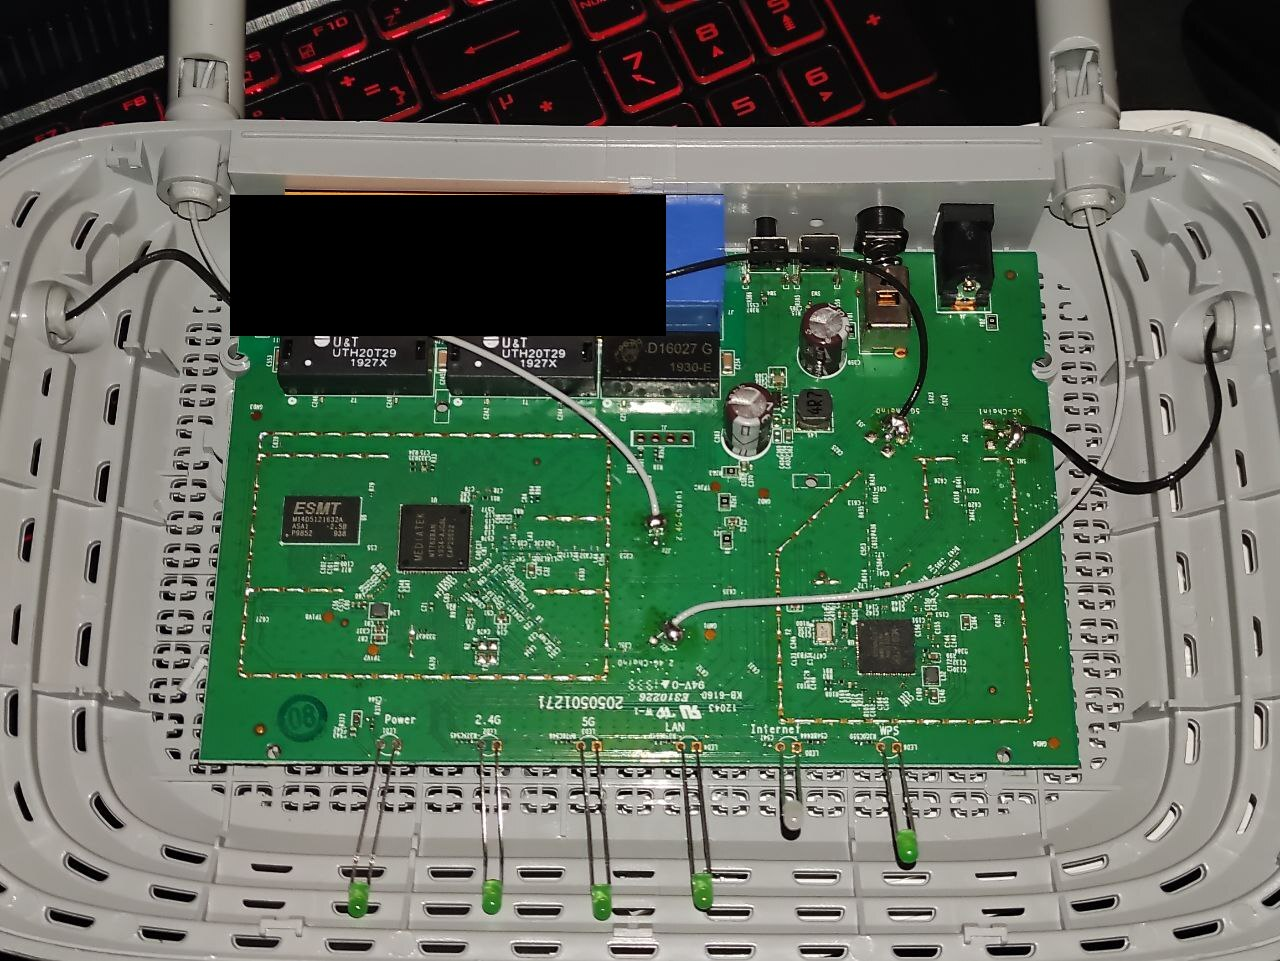
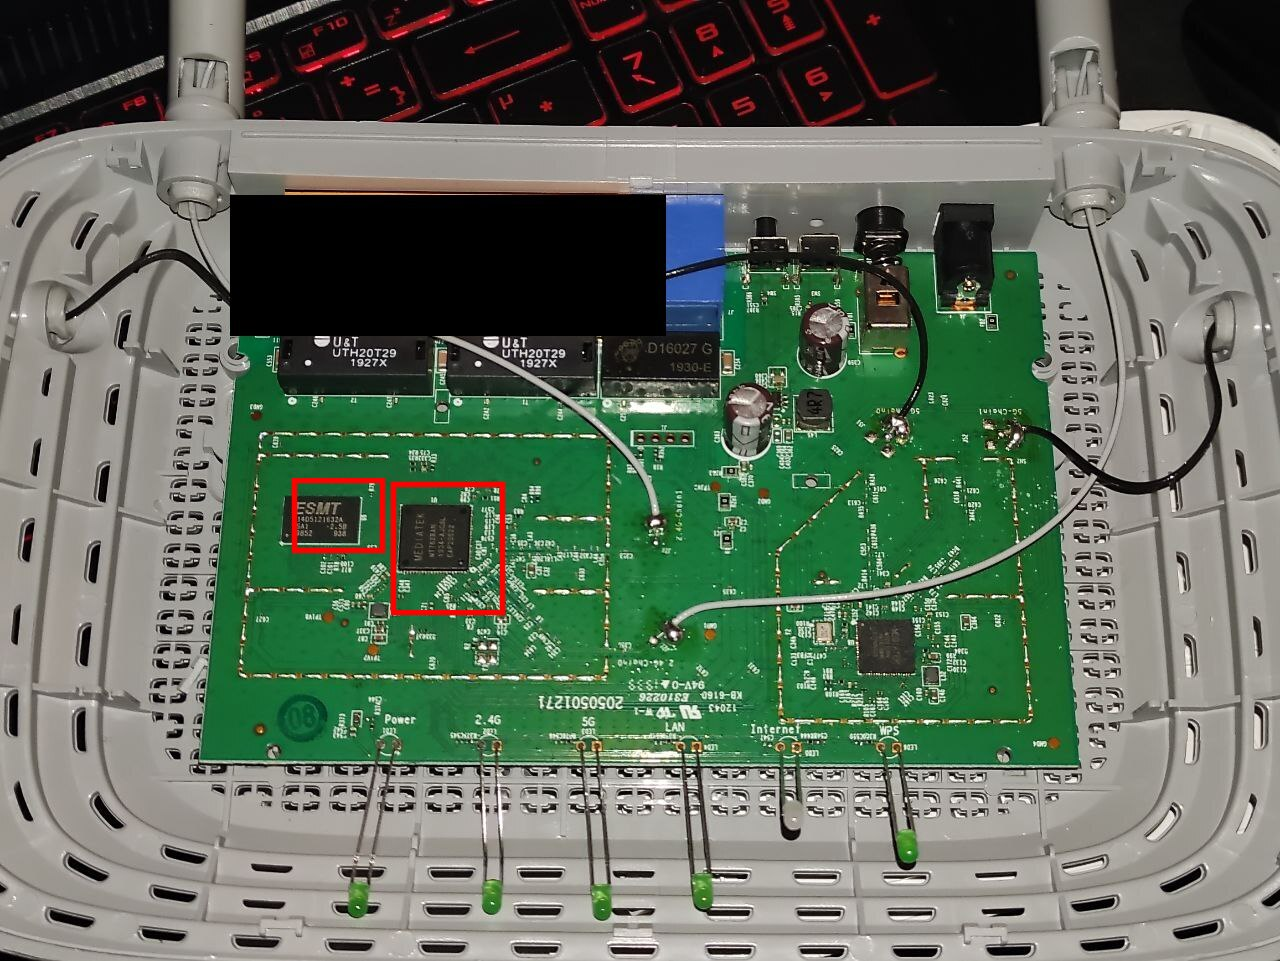
posts: highlight the mt7628 soc, ram, and u4 flash chip with red boxes on the board photos

Changed region(s): [[0.2188, 0.4995, 0.4062, 0.6556]]

diff --git a/_posts/2026-10-06-four-pads-to-a-root-shell.md b/_posts/2026-10-06-four-pads-to-a-root-shell.md
@@ -45,7 +45,7 @@ Here is the subject. An unremarkable white box that sat routing packets for year
 
 Open it up and the whole board is a single green PCB, which is most of the design:
 
-![The opened Archer A5 board: the MediaTek MT7628 SoC at centre, ESMT DDR RAM to its left, two U&T ethernet magnetics, the 5 GHz radio, and the LED light-pipes with their silkscreen labels (Power, 2.4G, 5G, LAN, Internet, WPS) along the bottom; the production barcode on the shield is blacked out]({{ '/assets/img/posts/archer-board-overview.jpg' | relative_url }})
+![The opened Archer A5 board, red boxes on the MediaTek MT7628 SoC (right) and the ESMT DDR RAM (left); also visible are two U&T ethernet magnetics, the 5 GHz radio, and the LED light-pipes with their silkscreen labels (Power, 2.4G, 5G, LAN, Internet, WPS) along the bottom, with the production barcode on the shield blacked out]({{ '/assets/img/posts/archer-board-overview.jpg' | relative_url }})
 
 The large square chip in the centre is the MediaTek **MT7628** SoC, the whole router on one die: CPU, switch, and 2.4 GHz radio. To its left is the ESMT DDR chip (the 64 MB of RAM the boot log counted), the two black `U&T UTH20T29` blocks are the ethernet port magnetics, and the separate chip toward the bottom right is the 5 GHz radio. Along the bottom edge, the green light-pipes carry the front-panel LEDs, with the board helpfully silk-screened `Power 2.4G 5G LAN Internet WPS`. The white wire you can see tacked to a pad near the centre is one leg of the serial connection.
 
@@ -184,7 +184,7 @@ What I did **not** demonstrate: an unauthenticated login, or any network path to
 
 With a root shell on the C50, the goal became a firmware image I could analyze offline. The whole firmware lives in one eight-pin SOIC package, `U4` on the underside of the board, sitting right next to the three wires (ground, TX, RX) I tacked onto the serial header. The package markings are consistent with EON's cFEON flash line, which is a nice physical confirmation of the JEDEC ID `1C 70 17` the bootloader printed: the chip in my hand and the byte the ROM read agree on EON, 8 MiB.
 
-![Underside of the router PCB showing the eight-pin SOIC SPI flash chip labelled U4 and three wires soldered to the serial header pads]({{ '/assets/img/posts/archer-flash-underside.jpg' | relative_url }})
+![Underside of the router PCB, red boxes on the eight-pin SOIC SPI flash chip labelled U4 (top) and the three wires soldered to the serial header pads (bottom)]({{ '/assets/img/posts/archer-flash-underside.jpg' | relative_url }})
 
 There are two ways to read that chip. You can desolder it, or clip onto it in-circuit, and read it directly with an SPI programmer (a CH341A and `flashrom`), which needs no shell at all and is the right move when the device will not give you a console. Or, if you already have a root shell, you can let the running Linux read its own flash for you, which is what I did. On a Linux-based router the flash is exposed as Memory Technology Device partitions. The map lives in `/proc/mtd`:
 
